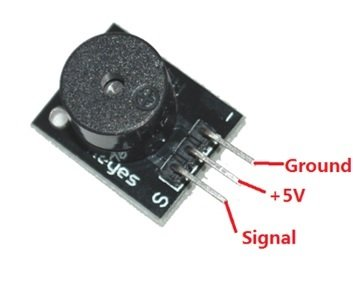
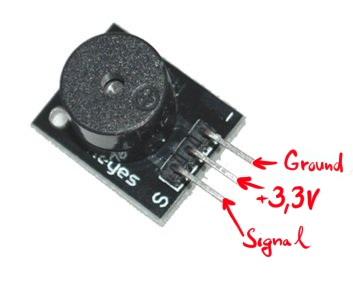
Fixed the passive buzzer pinout image, updated README.md

Changed region(s): [[0.6544, 0.48, 0.9972, 0.72], [0.6232, 0.66, 0.8725, 0.87]]

diff --git a/README.md b/README.md
@@ -1,21 +1,35 @@
 # BPC-DE1-Project Alarm clock
 Project for the bachelor subject Digital Electronics 1, 2026 <br>
+<i>Note, some browsers may slightly change the view of markdown tables. This file was formated with Librewolf (Firefox variation) view in mind.</i>
+
+## Team members and the work
+| Name | Responsibility |
+| :--- | :------------- |
+| [Patrik Malý](https://github.com/Patik05) | Responsible for the code, test benches and documentation. |
+| [Radek Ondra](https://github.com/Radek-Ondra) | Responsible for the custom made top level schematic. |
+| [Assiya Murat](https://github.com/assiya2305) | Responsible for the poster. |
 
 ##  Main objective
 Create working alarm clock. Maximum amount of time being possible to set being a day (23.59.59 <=> HH.MM.SS). User should be able to increase/decrease units of time by second, minutes and hours (depending on the mode set). After the set time is satisfactory, user may start the alarm clock. While the clock is running, the user is effectively blocked from manipulating with the alarm clock time, unless the countdown is stopped (time running out or pressing the stop/start button). When the set time runs out, a coloured red diode lights up and buzzer starts buzzing. It continues to signal until the stop/start button gets pressed.
 
+
 ## Top level schematics
 Each button uses a different version of debouce module with instantations (hence the top level scheme contains `debounce_up`, `debounce_down`, etc.)
 
-The top level being called `alarm_clock_top` <br>
+The top level being called [`alarm_clock_top`](alarm_clock/alarm_clock.srcs/sources_1/new/alarm_clock_top.vhd) <br>
 ![top_level_scheme](images/alarm_clock_scheme.png)<br>
 <i>Top level scheme</i>
+
+<i>Note: the project is made to use countdown with actual time seconds. However, if we desire to change the speed of the countdown, we must modify the top level schemes [`alarm_clock_top`](alarm_clock/alarm_clock.srcs/sources_1/new/alarm_clock_top.vhd) generic map for `clk_en` generic map G_MAX.</i>
+![change_countdown_speed](images/countdown_modification.png)
 
 ## Button layout
 <img src="images/button_layout.png" alt="Button layout" width="260px" height ="300px"><br>
 <i>Button layout functionality</i>
 
-### List of used hardware components of the board
+Note: once the countdown starts, the only responding buttons are the center (stop) and left button (reset).
+
+## List of used hardware components on the board
 | Component | Function |
 | :--- | :----- |
 | `BTNU - Up button` | Increases time value |
@@ -27,28 +41,27 @@ The top level being called `alarm_clock_top` <br>
 | ```RGB diode``` | Signals output in red when the time runs out |
 
 ## Modules
-Everything is wrapped into top level `alarm_clock_top` ([code](alarm_clock/alarm_clock.srcs/sources_1/new/alarm_clock_top.vhd))
-Custom new modules:
-- ```alarm_clock``` ([code](alarm_clock/alarm_clock.srcs/sources_1/new/alarm_clock.vhd))
-- ```buzzer_module``` ([code](alarm_clock/alarm_clock.srcs/sources_1/new/buzzer_module.vhd))
+Everything is wrapped into top level [`alarm_clock_top.vhd`](alarm_clock/alarm_clock.srcs/sources_1/new/alarm_clock_top.vhd)
 
-Already existing modules from the [VHDL examples](https://github.com/tomas-fryza/vhdl-examples/tree/master) repository using documentation:
-- [```bin2seg```](https://github.com/tomas-fryza/vhdl-examples/tree/master/lab3-segment) (modified, the default number is set to 0 (seg <= 0000001), otherwise works the same) ([code](alarm_clock/alarm_clock.srcs/sources_1/imports/imports/new/bin2seg.vhd))
-- [```clk_en```](https://github.com/tomas-fryza/vhdl-examples/tree/master/lab4-counter) (unchanged, docs included within the counter .md file) ([code](alarm_clock/alarm_clock.srcs/sources_1/imports/imports/new/clk_en.vhd))
-- [```counter```](https://github.com/tomas-fryza/vhdl-examples/tree/master/lab4-counter) (unchanged) ([code](alarm_clock/alarm_clock.srcs/sources_1/imports/imports/Documents/counter/counter.srcs/sources_1/new/counter.vhd))
-- [```display_driver```](https://github.com/tomas-fryza/vhdl-examples/tree/master/lab5-display) (modified, allowing 6 segment displays instead of only 2) ([code](alarm_clock/alarm_clock.srcs/sources_1/imports/imports/new/display_driver.vhd))
-- [```debounce```](https://github.com/tomas-fryza/vhdl-examples/tree/master/lab6-debounce) (unchanged) ([code](alarm_clock/alarm_clock.srcs/sources_1/imports/imports/Documents/debounce/debounce.srcs/sources_1/new/debounce.vhd))
+Some already existing modules from the [VHDL examples](https://github.com/tomas-fryza/vhdl-examples/tree/master) are used within this project. Clicking the name takes you into this projects code, clicking anything in the simple brackets redirects you to the corresponding source. 
+- [```bin2seg.vhd```](alarm_clock/alarm_clock.srcs/sources_1/imports/imports/new/bin2seg.vhd) (modified, the default number is set to 0 (seg <= 0000001), otherwise works completely same) ([docs](https://github.com/tomas-fryza/vhdl-examples/tree/master/lab3-segment), [code](https://github.com/tomas-fryza/vhdl-examples/blob/master/examples/_solutions/lab6-debounce/bin2seg.vhd))
+- [```clk_en.vhd```](alarm_clock/alarm_clock.srcs/sources_1/imports/imports/new/clk_en.vhd) (unchanged) ([docs](https://github.com/tomas-fryza/vhdl-examples/tree/master/lab4-counter), [code](https://github.com/tomas-fryza/vhdl-examples/blob/master/examples/_solutions/lab6-debounce/clk_en.vhd))
+- [```counter.vhd```](alarm_clock/alarm_clock.srcs/sources_1/imports/imports/Documents/counter/counter.srcs/sources_1/new/counter.vhd) (unchanged) ([docs](https://github.com/tomas-fryza/vhdl-examples/tree/master/lab4-counter), [code](https://github.com/tomas-fryza/vhdl-examples/blob/master/examples/_solutions/lab6-debounce/counter.vhd))
+- [```display_driver.vhd```](alarm_clock/alarm_clock.srcs/sources_1/imports/imports/new/display_driver.vhd) (modified, allowing 6 segment displays instead of only 2) ([docs](https://github.com/tomas-fryza/vhdl-examples/tree/master/lab5-display), [code](https://github.com/tomas-fryza/vhdl-examples/blob/master/examples/_solutions/lab6-debounce/display_driver.vhd))
+- [```debounce.vhd```](alarm_clock/alarm_clock.srcs/sources_1/imports/imports/Documents/debounce/debounce.srcs/sources_1/new/debounce.vhd) (unchanged) ([docs](https://github.com/tomas-fryza/vhdl-examples/tree/master/lab6-debounce), [code](https://github.com/tomas-fryza/vhdl-examples/blob/master/examples/_solutions/lab6-debounce/debounce.vhd))
   
-  Completed source code of how these borrowed modules look in full are [here](https://github.com/tomas-fryza/vhdl-examples/tree/master/examples/_solutions).
+Completed source code of how these borrowed modules look in full are [here](https://github.com/tomas-fryza/vhdl-examples/tree/master/examples/_solutions).
 
-## Constraints file
-[Constraints file](https://github.com/Patik05/BPC-DE1-Project-2026/blob/main/alarm_clock/alarm_clock.srcs/constrs_1/imports/newly/nexys.xdc) for the nexys A7 50t board for this project.
-## alarm_clock module
+Project [constraints file](https://github.com/Patik05/BPC-DE1-Project-2026/blob/main/alarm_clock/alarm_clock.srcs/constrs_1/imports/newly/nexys.xdc)
+
+(Newly made/functionaly heavily modified) modules are later documented in this markdown file.
+
+## Custom module [`alarm_clock.vhd`](alarm_clock/alarm_clock.srcs/sources_1/new/alarm_clock.vhd)
 
 ### Background
-An alarm clock is used to be an adjustable timer that signals to an user that time has run out. Runs with a clock cycle ('clk'). It also requires to have a possible way for an user to input its time values and when to signal the countdown.
+An alarm clock is used to be an adjustable timer that signals to an user that time has run out. It also requires to have a possible way for an user to input desired time values and to somehow signal the countdown to the user.
 
-### I/O ports of the `alarm_clock` module:
+### I/O ports of the `alarm_clock.vhd` module:
 | Port name | Direction | Type | Description |
 |:---------|:---------:|:----|:-----------|
 | `clk` | in | `std_logic` | Main system clock |
@@ -61,12 +74,20 @@ An alarm clock is used to be an adjustable timer that signals to an user that ti
 | `disp_data` | out |  `std_logic_vector(23 downto 0)` | 24-bit bus containing 6 concatenated 4-bit BCD values representing HH.MM.SS |
 | `alarm_active` | out |  `std_logic` | Activates high (1) when timer hits 0 |
 
-The module operates with three states: `Setup mode` (paused, being editable) and a `Countdown mode` (when the time is counting down) and `Alarm ringing mode` (time has run out)
-- `Setup mode`: User interacts with time incrementation/decrementation (`sig_inc`, `sig_dec` respectively. The math uses a wrap-around logic (meaning that decrementing 00 seconds wraps to 59 seconds while not borrowing from minutes).
-- `Countdown mode`: User setup inputs get ignored, except for the center button to stop the countdown (`sig_play_pause`). While the mode is active, it exclusively listens to `ce_1hz` pulse, executing standard clock math.
-- `Alarm ringing tone`: When the timer reads 00.00.00, it triggers a red diode to glow and a buzzer to start making noise, continuing until the user presses the center button (`sig_play_pause`), returning the system to `Setup_mode`.
+The module essentially operates with three states: `Setup mode` (paused, being editable) and a `Countdown mode` (when the time is counting down) and `Alarm ringing mode` (time has run out). These modes are decided by `counting_down` and `is_zero` flags.
 
-Outcome of `alarm_clock_tb`:
+| Mode | `counting_down` | `is_zero` | What it does |
+| :---:| :---:| :---: | :--- |
+|`Setup mode`| 0 | 0 | User interacts with time incrementation/decrementation (`sig_inc`, `sig_dec` respectively). The math uses a wrap-around logic (meaning that decrementing 00 seconds wraps to 59 seconds while not borrowing from minutes).|
+|`Countdown mode`| 1 | 0 |User setup inputs get ignored, except for the center button to stop the countdown (`sig_play_pause`). While the mode is active, it exclusively listens to `ce_1hz` pulse, executing standard clock math.|
+|`Alarm ringing tone`| 0 | 1|When the timer reads 00.00.00, it triggers a red diode to glow and a buzzer to start making noise, continuing until the user presses the center button (`sig_play_pause`), returning the system to `Setup_mode`.|
+
+
+<i>Note: `counting_down = 1`,`is_zero = 1`, does not happen, as the buzzer can't buzz and timer can't decrease at the same time</i>
+
+
+Outcome of [`alarm_clock_tb.vhd`](alarm_clock/alarm_clock.srcs/sim_1/new/alarm_clock_tb.vhd):
+
 ![alarm_clock_tb](images/sim1_alarm_clock_tb.png)<br>
 <i>The display of the simulation shows us an example of the alarm clock responding to incoming signals.</i>
 
@@ -82,13 +103,13 @@ The test provides us the following events:
 ### Conclusion
 The test shows us intended change in behaviour for a module that should work as an adjustable alarm clock that signals when time runs out. With the usage of the debounce module its also ensured, that the button mashing (sending signals) will remain consistent.
 
-## buzzer_module module
+## Custom module [`buzzer_module.vhd`]((alarm_clock/alarm_clock.srcs/sources_1/new/buzzer_module.vhd))
 ### Background
-The nexys A7 50t board oscilator operates on a 100,000,000 frequency and we desire a 50% duty cycle square wave, which this module achieves (the actual HW508 buzzer lacks an internal oscillator).
+The nexys A7 50t board oscilator operates on a 100,000,000 frequency and we desire a 50% duty cycle square wave, which this module achieves (the actual used HW508 buzzer lacks an internal oscillator).
 
-### I/O ports of the `buzzer_module` module:
+### I/O ports of the `buzzer_module.vhd` module:
 
-Table of signals coming into custom module ```buzzer_module ```:
+Table of signals coming into custom module `buzzer_module.vhd`:
 | Port name | Direction | Type | Description |
 |:---------|:---------:|:----|:-----------|
 | `clk` | in | `std_logic` | Main clock (Target 100 MHz) |
@@ -97,7 +118,8 @@ Table of signals coming into custom module ```buzzer_module ```:
 
 - The module utilizes an internal counter to dived the incoming clock. Assuming a 100 MHz input clock, the default `C_MAX` constant of `25000` toggles the output pin every 25000 cycles. This creates a full wave every 50000 cycles, resulting in a 2 kHz square wave (100000000 / 50000 = 2000 Hz). The output give a 50% duty cycle for high audio volume and clarity.
 
-Outcome of `buzzer_module_tb`:
+Outcome of [`buzzer_module_tb.vhd`](alarm_clock/alarm_clock.srcs/sim_1/new/buzzer_module_tb.vhd): <br>
+
 ![buzzer_module_tb](images/sim2_buzzer_module_tb.png)<br>
 <i>Requires to manually change the C_MAX value in buzzer_module to 2 for simulation purposes</i>
 
@@ -107,6 +129,15 @@ The test provides us the following events:
 
 ### Conclusion
 The test shows us, that the buzzer recieves 50% duty cycle square wave, when its enabled.
+
+## Utilization
+The project utilization of the board resources after synthesis:
+| Type | Usage | Maximum | Percentual (%)|
+| :-- | :---: | :-----: | :---:|
+| Flip-flops | 224 | 65200| 0.34 |
+| In/Out | 32 | 210 | 15.24 |
+| LUT | 149 | 32600 | 0.46 |
+
 
 ## JA Pmod connectors (Nexys A7)
 In the actual realization for the buzzer to be functional, it is neccesary to note which actual port the buzzer (in our case HW508) should be connected. The constraint file is set to expect the buzzer in port C17:
@@ -122,30 +153,28 @@ In the actual realization for the buzzer to be functional, it is neccesary to no
 
 ![buzzer_pinout](images/passive_buzzer_pinout.jpg)<br>
 <i>Reference on the buzzer pinout</i><br>
-It is expected to connect the buzzer Signal pin to the rightmost corner of the JA pinout, the middle +5V pin to VCC pinout and the Ground on the GND pinout.
-
+It is expected to connect the buzzer Signal pin to the rightmost corner of the JA pinout, the middle +3.3V pin to VCC pinout and the Ground on the GND pinout.
 
 ## Used hardware
 The code runs on the <b>Nexys A7-50T</b> FPGA board.
 ![nexys_board](images/nexys_board.png)<br>
 <i>Note: The board in question.</i>
 
-## Utilization
-The project utilizes:
-- 224 out of 65200 flip-flops (0.34%)
-- 32 out of 210 I/O ports (15.24%)
-- 149 out of 32600 LUT (0.46%)
-
 ## Poster
 [Project poster](images/alarm_clock_poster.png)<br>
 <i>Draft of the project poster</i>
 
-## Team members and the work
-| Name | Responsibility |
-| :--- | :------------- |
-| [Patrik Malý](https://github.com/Patik05) | Responsible for the code, test benches and documentation. |
-| [Radek Ondra](https://github.com/Radek-Ondra) | Responsible for the custom made top level schematic. |
-| [Assiya Murat](https://github.com/assiya2305) | Responsible for the poster. |
+## Showcase video
+<video width="800" height="300" controls>
+  <source src="https://youtu.be/qTqv-hoEQLM" type="video/mp4">
+</video>
+
+## Used tools
+- Vivado: Overall used to start the project. Used for subsequent project testing and creation of bitstream.
+- Github: Documentation, repository home.
+- VSCode: Home edits for the repository.
+- Draw.IO: Used for the top level scheme image.
+- Gemini AI: Used to help fix the buzzer issues (and the subsequent module)
 
 ## References
 1. Digilent blog. [Nexys A7 Reference Manual](https://reference.digilentinc.com/reference/programmable-logic/nexys-a7/reference-manual)
@@ -154,4 +183,4 @@ The project utilizes:
 
 3. Tomas Fryza, vhdl-examples. [VHDL examples](https://github.com/tomas-fryza/vhdl-examples/tree/master)
 
-4. Microcontrollerslab. [Image for the buzzer pinouts](https://microcontrollerslab.com/buzzer-module-interfacing-arduino-sound-code/)
+4. Microcontrollerslab. [Modifiend image for the buzzer pinouts](https://microcontrollerslab.com/buzzer-module-interfacing-arduino-sound-code/)
